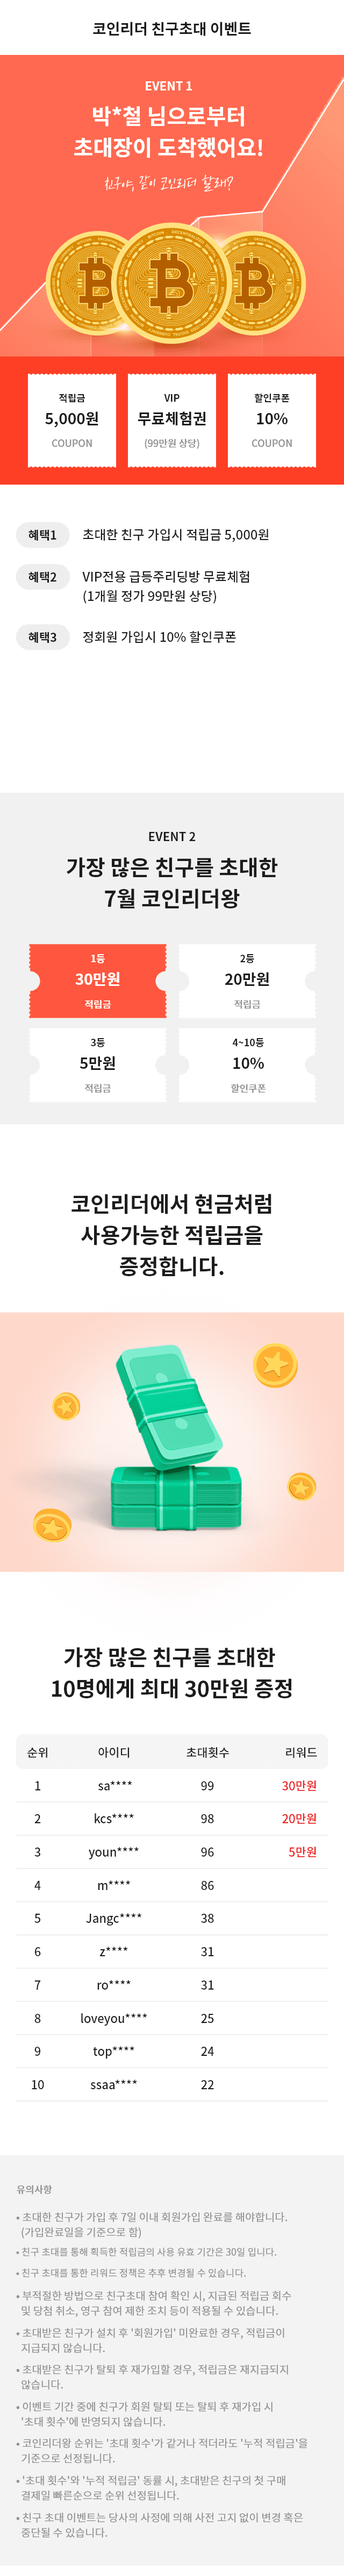
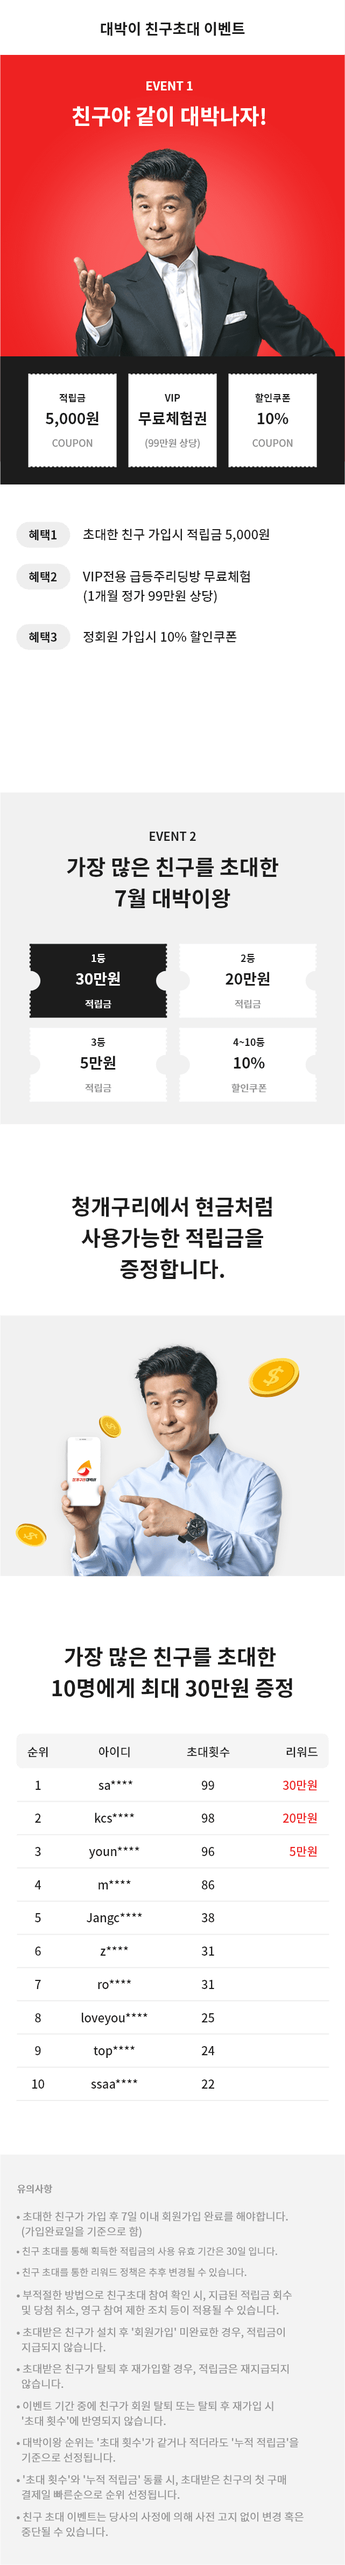
상세 페이지 완료

diff --git a/newsDetails03.html b/newsDetails03.html
@@ -1,0 +1,35 @@
+<!DOCTYPE html>
+<html lang="ko">
+<head>
+    <meta charset="UTF-8">
+    <meta http-equiv="X-UA-Compatible" content="IE=edge">
+    <meta name="viewport" content="width=device-width, initial-scale=1.0 ,maximum-scale=1.0, user-scalable=0">
+    <!-- Iphone 모바일 확대 방지  maximum-scale=1.0, user-scalable=0-->
+    <title>새소식 상세 - setting</title>
+    <link rel="stylesheet" href="css/import.css">
+    <script src="https://code.jquery.com/jquery-3.7.0.min.js" integrity="sha256-2Pmvv0kuTBOenSvLm6bvfBSSHrUJ+3A7x6P5Ebd07/g=" crossorigin="anonymous"></script>
+    <script src="js/common.js"></script>
+</head>
+<body>
+    <header>
+        <h1 class="textHidden">대박이APP</h1>
+        <nav>
+            <ul>
+                <li><a href="">홈</a></li>
+                <li><a href="">리딩방</a></li>
+                <li><a href="">투자정보</a></li>
+                <li><a href="">새소식</a></li>
+                <li><a href="">설정</a></li>
+            </ul>
+        </nav>
+    </header>
+    <section class="newsDetailPage">
+        <h2><a href="" class="arrow-left">이전</a>이벤트</h2>
+        <img src="images/details03.png" alt="상세 이미지">
+        <div style="--color: #b0000f;">
+            <button class="copy_url">링크 복사</button>
+            <button class="kakao_invite">카카으로 초대하기</button>
+        </div>
+    </section>
+</body>
+</html>

diff --git a/newsDetails01.html b/newsDetails01.html
@@ -1,0 +1,35 @@
+<!DOCTYPE html>
+<html lang="ko">
+<head>
+    <meta charset="UTF-8">
+    <meta http-equiv="X-UA-Compatible" content="IE=edge">
+    <meta name="viewport" content="width=device-width, initial-scale=1.0 ,maximum-scale=1.0, user-scalable=0">
+    <!-- Iphone 모바일 확대 방지  maximum-scale=1.0, user-scalable=0-->
+    <title>새소식 상세 - setting</title>
+    <link rel="stylesheet" href="css/import.css">
+    <script src="https://code.jquery.com/jquery-3.7.0.min.js" integrity="sha256-2Pmvv0kuTBOenSvLm6bvfBSSHrUJ+3A7x6P5Ebd07/g=" crossorigin="anonymous"></script>
+    <script src="js/common.js"></script>
+</head>
+<body>
+    <header>
+        <h1 class="textHidden">대박이APP</h1>
+        <nav>
+            <ul>
+                <li><a href="">홈</a></li>
+                <li><a href="">리딩방</a></li>
+                <li><a href="">투자정보</a></li>
+                <li><a href="">새소식</a></li>
+                <li><a href="">설정</a></li>
+            </ul>
+        </nav>
+    </header>
+    <section class="newsDetailPage">
+        <h2><a href="" class="arrow-left">이전</a>이벤트</h2>
+        <img src="images/details01.png" alt="상세 이미지">
+        <div style="--color: #ee2222;">
+            <button class="copy">링크 복사</button>
+            <button class="invite">카카으로 초대하기</button>
+        </div>
+    </section>
+</body>
+</html>

diff --git a/newsDetails02.html b/newsDetails02.html
@@ -1,0 +1,35 @@
+<!DOCTYPE html>
+<html lang="ko">
+<head>
+    <meta charset="UTF-8">
+    <meta http-equiv="X-UA-Compatible" content="IE=edge">
+    <meta name="viewport" content="width=device-width, initial-scale=1.0 ,maximum-scale=1.0, user-scalable=0">
+    <!-- Iphone 모바일 확대 방지  maximum-scale=1.0, user-scalable=0-->
+    <title>새소식 상세 - setting</title>
+    <link rel="stylesheet" href="css/import.css">
+    <script src="https://code.jquery.com/jquery-3.7.0.min.js" integrity="sha256-2Pmvv0kuTBOenSvLm6bvfBSSHrUJ+3A7x6P5Ebd07/g=" crossorigin="anonymous"></script>
+    <script src="js/common.js"></script>
+</head>
+<body>
+    <header>
+        <h1 class="textHidden">대박이APP</h1>
+        <nav>
+            <ul>
+                <li><a href="">홈</a></li>
+                <li><a href="">리딩방</a></li>
+                <li><a href="">투자정보</a></li>
+                <li><a href="">새소식</a></li>
+                <li><a href="">설정</a></li>
+            </ul>
+        </nav>
+    </header>
+    <section class="newsDetailPage">
+        <h2><a href="" class="arrow-left">이전</a>이벤트</h2>
+        <img src="images/details02.png" alt="상세 이미지">
+        <div style="--color: #fe3f26;">
+            <button class="copy">링크 복사</button>
+            <button class="invite">카카으로 초대하기</button>
+        </div>
+    </section>
+</body>
+</html>

diff --git a/css/global.css b/css/global.css
@@ -11,17 +11,15 @@ mark{color: var(--colorPoint);}
 [class^="imgBox"][class$="setting"]{width: 18px; background-image: url('../images/icon-setting.png');}
 [class^="arrow"][class$="left"]{width: 13px; background-image: url('../images/arrow-left.png');}
 
-[class$="Page"]{padding: 0 var(--spasing) 98px;
+[class$="Page"]{padding-block: 0 98px; margin-inline: var(--spasing);
+    &:has(h2 a){padding-top: 45px;}
     & h2{font-size: 18px; font-weight: 700; line-height: 27px;
-        &:has(a){height: 45px; display: flex; align-items: center; position: sticky; top: 0; background-color: white; z-index: 100;
+        &:has(a){height: 45px; display: flex; align-items: center; position: fixed; left: 0; top: 0; width: 100%; padding-inline: var(--spasing); background-color: white; z-index: 100; box-sizing: border-box;
             & a{line-height: 1; margin-right: 10px;}
         }
         & + p{font-size: 14px; color: #929292; line-height: 20px; margin-bottom: 25px;}
     }
     & h2:not(:has(a)), h2:has(a) + p{padding-top: 9px;}
-    /* & h2{
-        &:is(:not(:has(a)),:has(a) + p){padding-top: 9px;}
-    } */
     & h2:not(:has(a)) + p{padding-top: 4px;}
 }
 

diff --git a/js/common.js b/js/common.js
@@ -1,9 +1,11 @@
 $(document).ready(function(){
     // 콤마
-    $('[data-comma]').length && comma()
+    $('[data-comma]').length && comma();
 
     // 텝
-    $('.tabBtns').length && tab()
+    $('.tabBtns').length && tab();
+
+    $('.newsDetailPage').length && newsDetailPage();
 })
 
 
@@ -25,5 +27,21 @@ function tab(){
         $('.tabBtns > *, .tabContents > *').removeClass('active');
         $(this).addClass('active');
         // $('.tabContents > *').eq($(this).index()).addClass('active');
+    })
+}
+
+function newsDetailPage(){
+    $('.copy_url').click(function(){
+        const currentURL = window.location.href;
+        const tempInput = document.createElement('input');
+        tempInput.value = currentURL;
+        document.body.appendChild(tempInput);
+        tempInput.select();
+        document.execCommand('copy');
+        document.body.removeChild(tempInput);
+        alert('URL이 복사되었습니다.');
+    })
+    $('.kakao_invite').click(function(){
+        alert('카카오톡 초대하기')
     })
 }

diff --git a/css/page.css b/css/page.css
@@ -45,3 +45,17 @@
         }
     }
 }
+
+
+/* 새소식 상세 페이지 */
+.newsDetailPage{ position: relative;
+    & img{width: 100%; padding-top: 14px;}
+    & div{position: absolute; left: 0; top: 194.4444vw; width: 100%; display: flex; align-items: center; gap: 3.6111vw;
+        & button{height: 10.2777vw; font-size: 3.3333vw; font-weight: 500; line-height: 1; border-radius: 1.6666vw;
+            &.copy_url{flex: 75; color: var(--color); border: 0.2778vw solid var(--color);}
+            &.kakao_invite{flex: 202; color: white; background-color: var(--color); display: flex; justify-content: center; align-items: center;
+                &::before{content: ''; width: 5.7222vw; aspect-ratio: 1; background: url('../images/icon-kakao.png') no-repeat center / cover; margin-bottom: -0.5555vw; margin-right: 1.3888vw;}
+            }
+        }
+    }
+}
